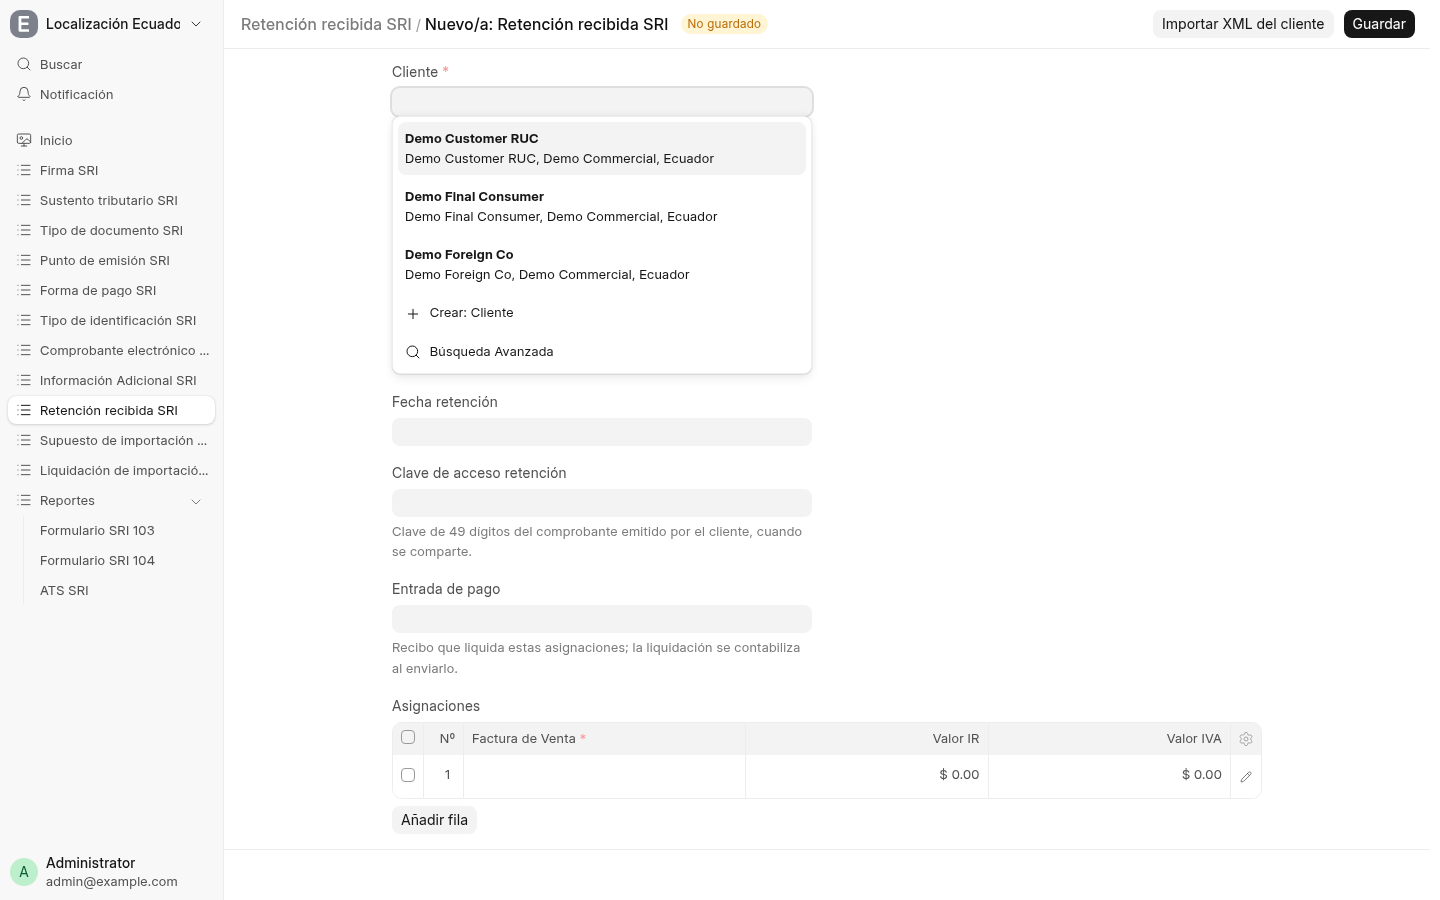
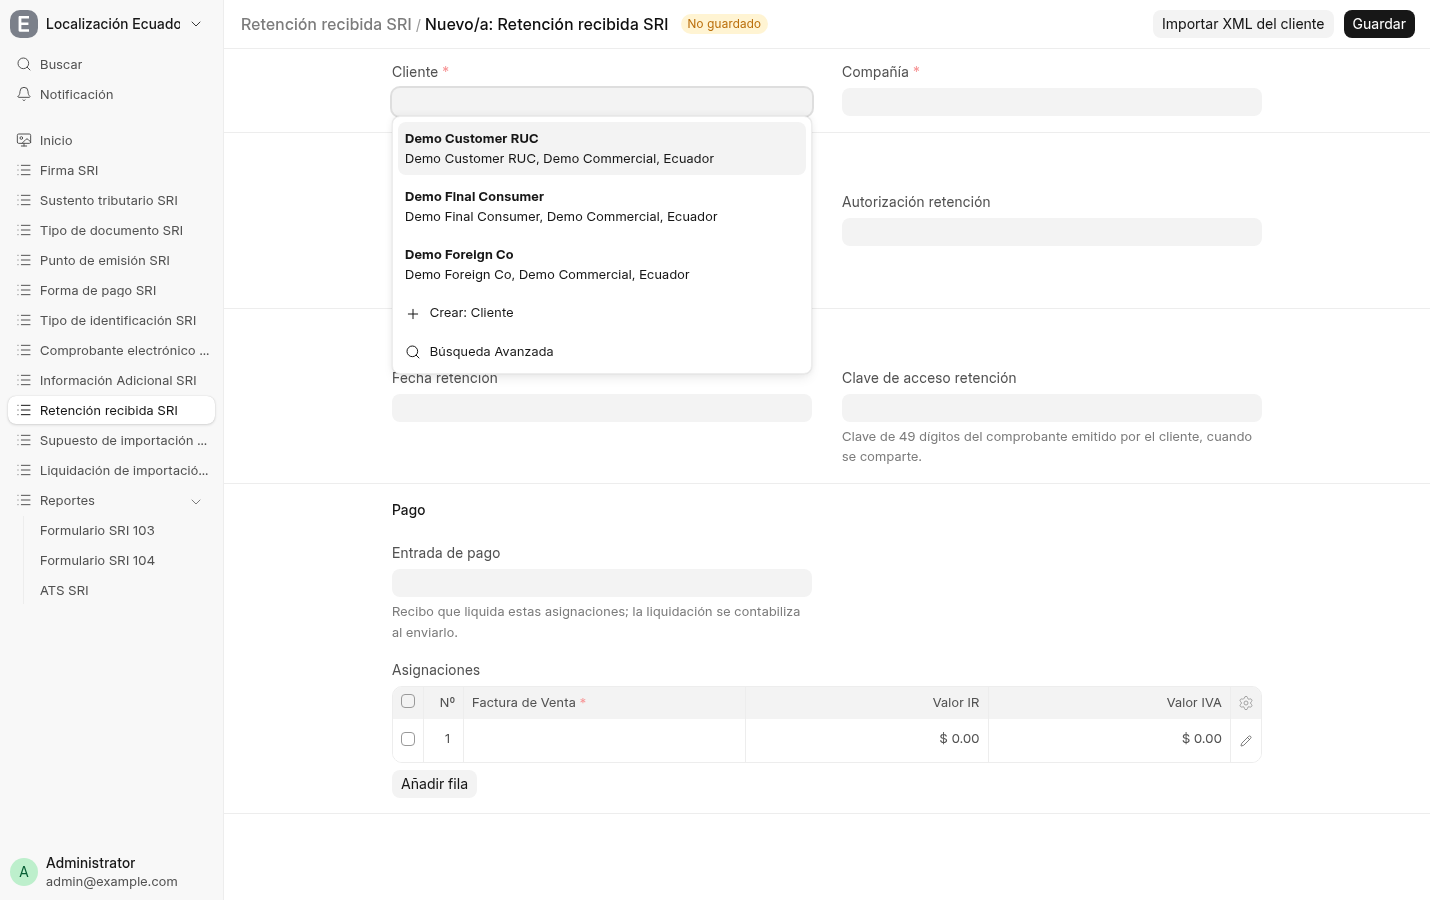
docs(wiki): refresh settlement and received-withholding captures for two-column layout
Retake 17/18/19 (settlement) and 15 (received withholding) on the
fresh demo seed showing the new Column/Section Break layout.

diff --git a/docs/wiki/06-importaciones.md b/docs/wiki/06-importaciones.md
@@ -24,7 +24,7 @@ moneda; mezclar monedas falla en voz alta. Los vinculados deben existir,
 ser de la misma empresa y no estar anulados. El FOB sale del neto de la
 factura exterior (sin impuestos), si no de la recepción u orden.
 
-![Settlement: compañía, proveedor y fuentes de mercadería y costos](img/17-settlement-goods.png)
+![Settlement: compañía, proveedor, mercadería, costos y DAI (dos columnas)](img/17-settlement-goods.png)
 
 ## Paso 2 — Declaración de aduana (DAI)
 
